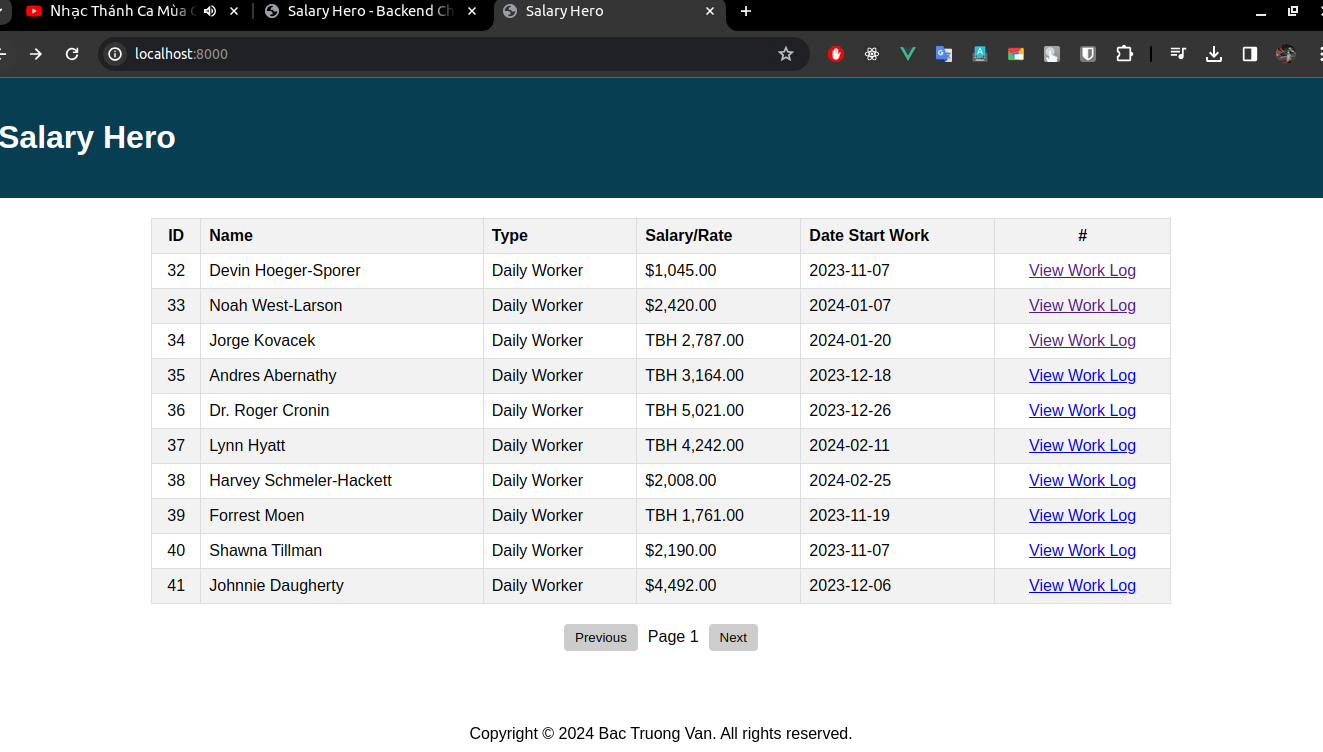
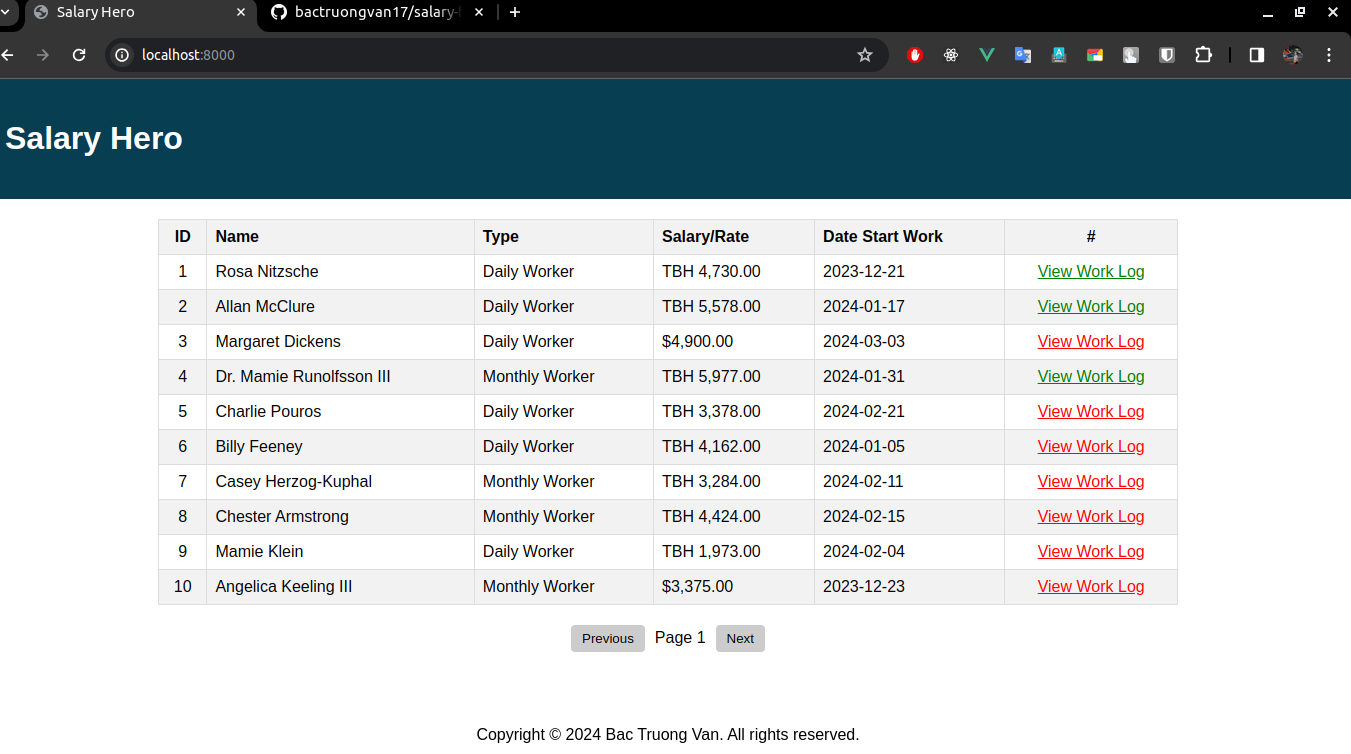
Update README.md demo pictures

diff --git a/README.md b/README.md
@@ -143,3 +143,6 @@ Follow these steps to install and set up Salary Hero:
 
 
 ![Database Schema](docs/img/demo2.png)
+
+
+![Database Schema](docs/img/demo3.png)
